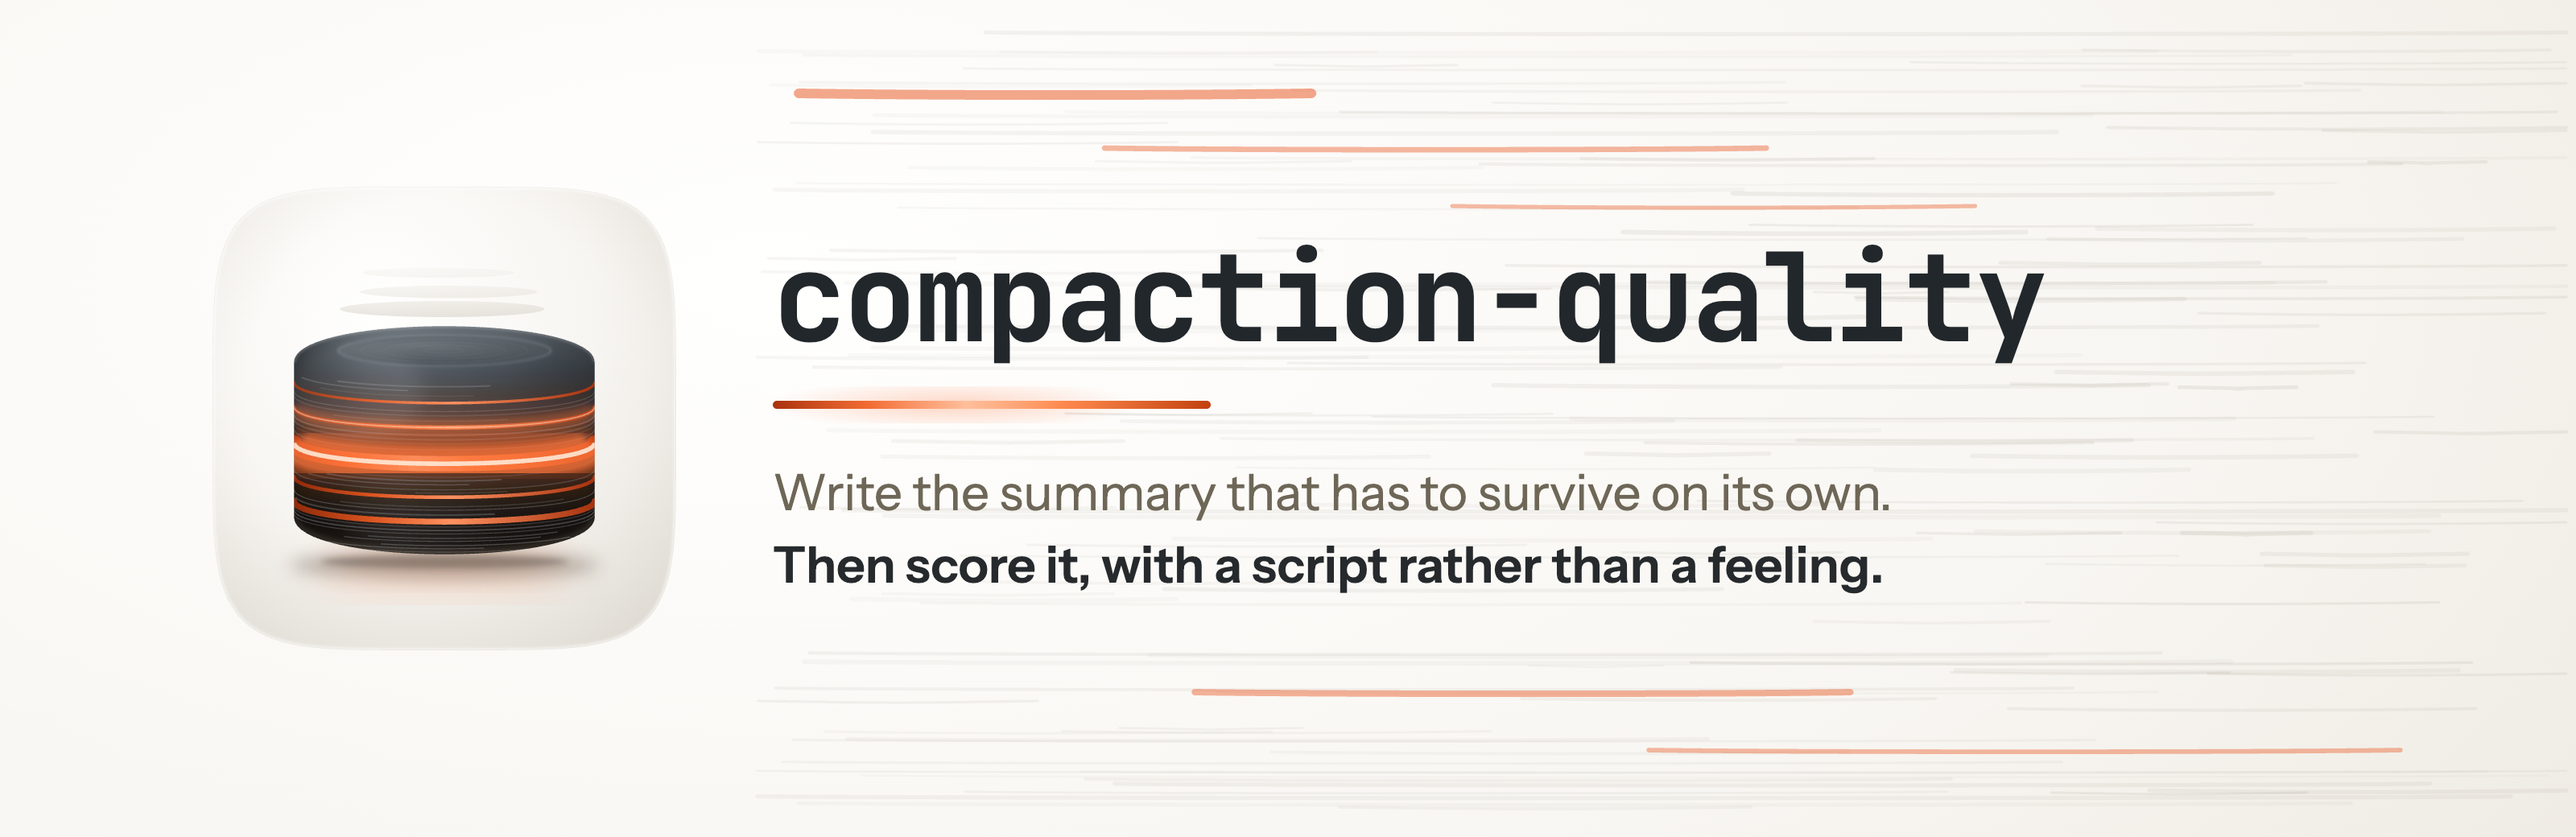
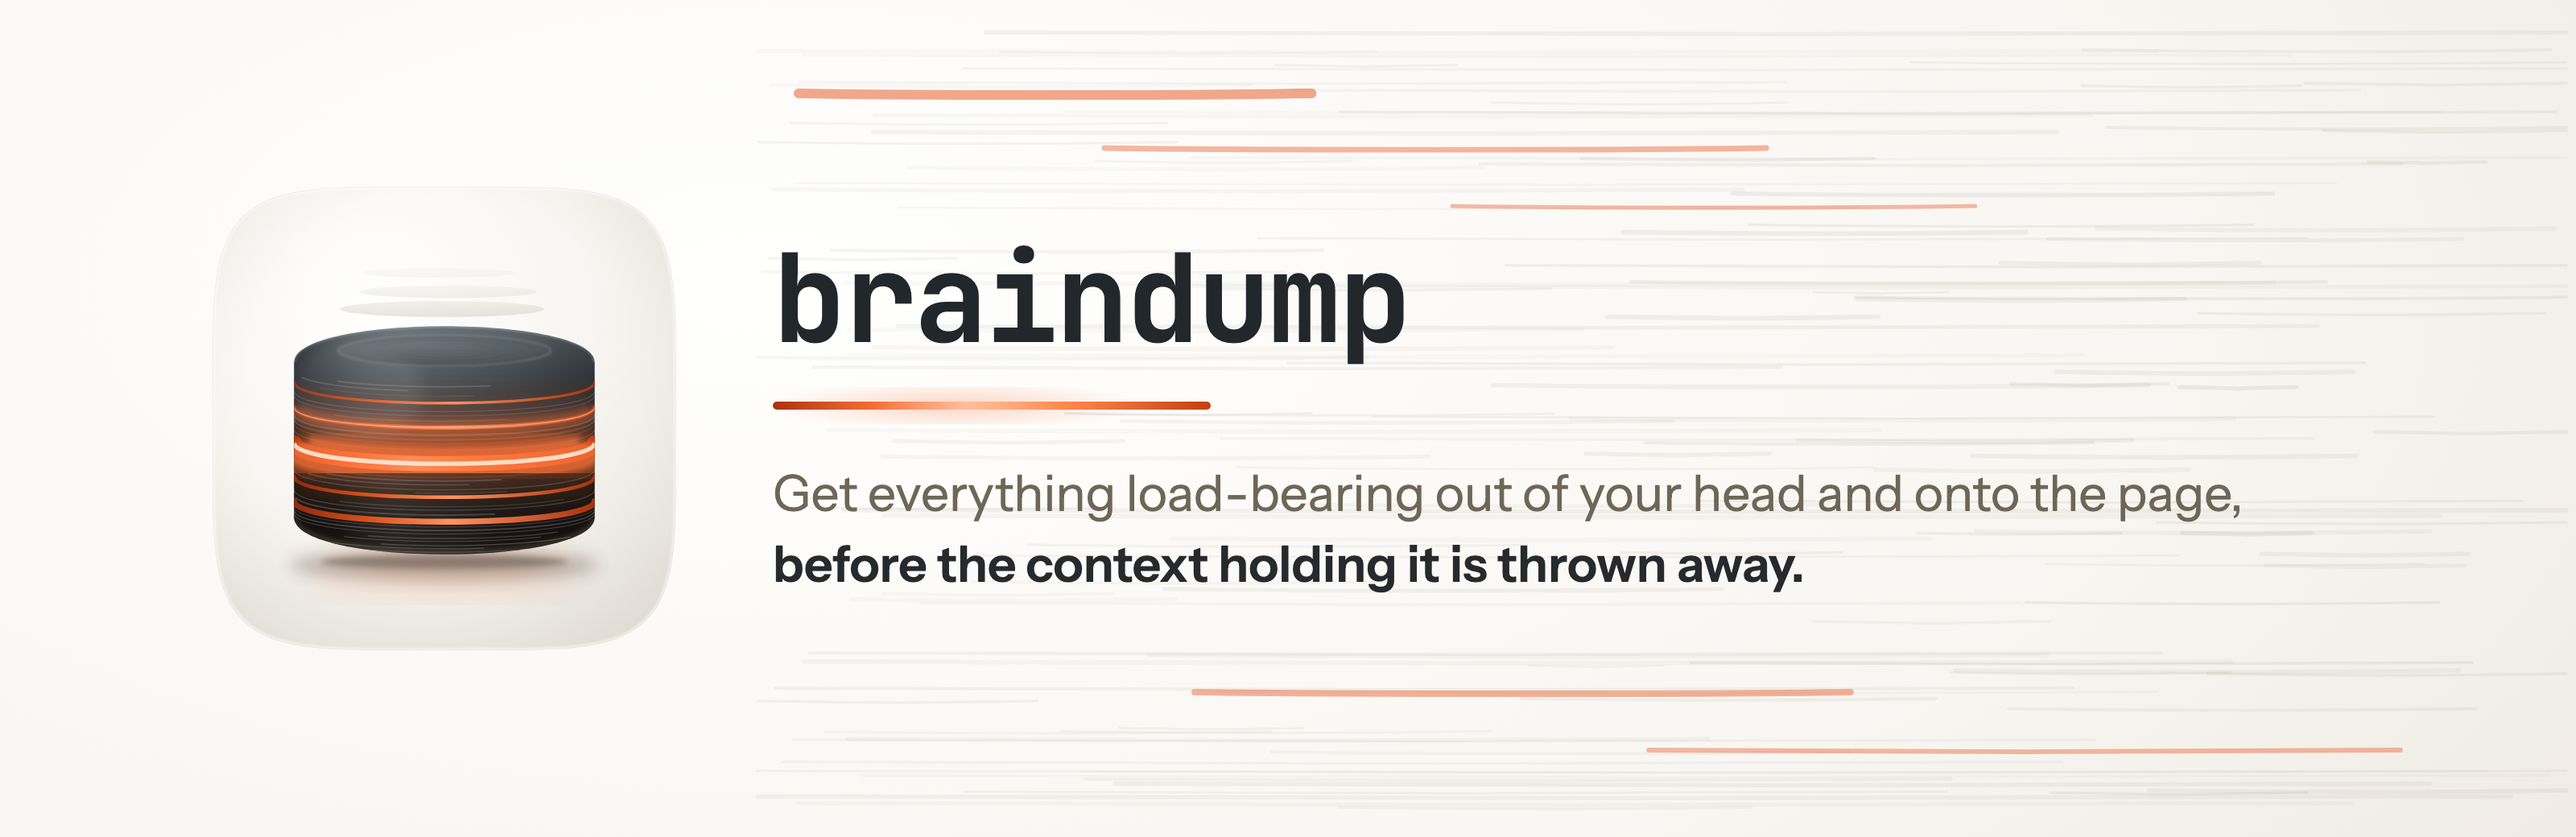
braindump 2.1.0: brand treatment for the new name
Banner rebuilt (its wordmark is rendered into the PNG) with a tagline that names
the act rather than the mechanism. README rewritten for a reader who is not deep
in agent tooling, carrying the current 121-event figures and the v2 field story.
Root README card and both manifests brought into step.

The icon artwork did not change, and that was a decision. The glyph carries no
wordmark, so nothing in the render was stale, and its direction was already
called Load-Bearing: the discs shedding off the top are the bulk being thrown
away and the seams are what had to survive it. That reads truer under the new
name than the old one. Re-commissioning an 11/12 master that took three engines
and five iterations would have spent a lot to land somewhere worse.

diff --git a/plugins/braindump/assets/banner-src.html b/plugins/braindump/assets/banner-src.html
@@ -32,10 +32,10 @@
   <div class="lockup">
     <img class="icon" src="icon.svg" alt="">
     <div class="words">
-      <div class="wordmark">compaction-quality</div>
+      <div class="wordmark">braindump</div>
       <div class="seam"></div>
-      <div class="tagline">Write the summary that has to survive on its own.
-        <b>Then score it, with a script rather than a feeling.</b></div>
+      <div class="tagline">Get everything load-bearing out of your head and onto the page,
+        <b>before the context holding it is thrown away.</b></div>
     </div>
   </div>
   <script>

diff --git a/plugins/braindump/README.md b/plugins/braindump/README.md
@@ -1,41 +1,56 @@
 <p align="center">
-  <img src="assets/banner.png" alt="compaction-quality: a compressed graphite core banded with five vermilion seams beside the wordmark, with the tagline: write the summary that has to survive on its own, then score it with a script rather than a feeling" width="100%" />
+  <img src="assets/banner.png" alt="braindump: a compressed graphite core banded with glowing vermilion seams beside the wordmark, with the tagline: get everything load-bearing out of your head and onto the page, before the context holding it is thrown away" width="100%" />
 </p>
 
-<h1><img src="assets/icon.svg" alt="" width="30" valign="middle" /> compaction-quality</h1>
+<h1><img src="assets/icon.svg" alt="" width="30" valign="middle" /> braindump</h1>
 
-Write compaction summaries that survive being the only thing the next session has. Then score them, with a script rather than a feeling.
+Get everything load-bearing out of your head and onto the page while the session still has it. Then score what survived, with a script rather than a feeling.
 
 <p>
-  <img alt="Median user-correction retention: 12.5 percent" src="https://img.shields.io/badge/user_corrections_retained-12.5%25-E8551F">
-  <img alt="Measured on 225 real compaction events" src="https://img.shields.io/badge/measured_on-225_real_events-3E464D">
+  <img alt="Rejected approaches retained by the built-in prompt: 0.3 percent" src="https://img.shields.io/badge/rejected_approaches_retained-0.3%25-E8551F">
+  <img alt="Measured on 121 real compaction events" src="https://img.shields.io/badge/measured_on-121_real_events-3E464D">
   <img alt="Scoring is exact string match, with no model judgment" src="https://img.shields.io/badge/scoring-exact_string_match-6E6757">
   <img alt="License: MIT" src="https://img.shields.io/badge/license-MIT-A79C89">
 </p>
 
+> Previously published as `compaction-quality`. Same skill, clearer name.
+
 ## Why this exists
 
-When a Claude Code session compacts, the summary becomes the entire inheritance; the reasoning, the files read, and the dead ends already ruled out are gone. Most summaries are written like recaps for a human who watched the session. The actual reader is a stranger who has to *continue the work*, and who will confidently redo whatever the summary left out.
+When a long session runs out of room, the tool squeezes it: everything that happened gets replaced by a summary, and the summary is all the next session gets. The reasoning is gone. So are the files you read, and every approach you already tried and ruled out.
 
-We measured what actually gets lost: **225 real compaction events**, each matched against the transcript it replaced, exact string match only.
+A summary reads naturally as a recap for someone who watched it happen. The actual reader is a stranger who has to carry on, and who will confidently redo whatever you left out.
 
-| What | Median retention | Median items per event |
-|---|---:|---:|
-| File paths | 2.9% | 477 |
-| Backtick identifiers | 17.2% | 924 |
-| User messages | 11.1% | 58 |
-| **User corrections** | **12.5%** | **5** |
+We measured what actually goes missing. **121 real compaction events**, each scored against the transcript it replaced, exact string match only.
 
-Three of those numbers are fine; carrying 477 transient file paths forward would make a summary worse, not better. The fourth is the problem. A correction is you saying *no, not like that*; there are about five per session, and four of them die in compaction. Losing one means the next session repeats a mistake you already paid to fix. It is the most expensive class to lose and the cheapest to keep.
+| What was in the session | Survived into the summary |
+|---|---:|
+| **Rejected approaches** | **0.3%** |
+| Standing constraints | 33.8% |
+| User corrections | 63.1% |
+| Exact identifiers | 48.6% |
+| File paths | 16.4% |
+
+Read the bottom row first, because it isn't a failure. Most file paths in a session are things you glanced at once; a summary that dragged all of them forward would be worse, not better. Low recall on bulk is correct.
+
+Now read the top row. **Everything you ruled out is gone.** Not compressed, gone. Two thirds of your standing rules go with it, and those are the ones you only ever said once.
+
+That matters more than it sounds. Constraint violations run at **0%** when the rule survives into the summary and **38%** when it doesn't. Whether the next session follows your rules is almost entirely a question of whether your rules are still written down.
 
 ## What the skill does
 
-One question decides every keep/drop call: **if this is missing, does the next session do something *wrong*, or merely something *slower*?** Wrong-class items (corrections with their reasons, one-shot constraints, unfinished work with its failure mode, exact identifiers) get kept verbatim. Slower-class bulk (exploration, passing reads, resolved errors) gets dropped without guilt. The skill carries the full rules, the summary shape, and the failure modes that make summaries quietly useless.
+It writes the summary in **two tiers**, and that single decision carries most of the value.
+
+**Tier 1 is pinned.** Your standing constraints, your corrections, the approaches you ruled out with the reason why, and the exact strings nobody can guess again: paths, error text, ports, version pins. Reproduced word for word, placed first, never summarised.
+
+**Tier 2 is the narrative.** What was built and why, what's left. Ordinary summarising is fine here.
+
+One question decides which tier anything goes in: *if this is missing, does the next session do something **wrong**, or merely something **slower**?* Re-reading a file costs seconds. Repeating a mistake you already corrected costs your trust in the thing.
 
 ```mermaid
 flowchart LR
-    T["Session transcript"] -->|"/compact"| S["Summary"]
-    T -.->|"gone"| G(["Reasoning, file reads,<br/>dead ends already ruled out"])
+    T["Session transcript"] -->|"squeezed"| S["Summary"]
+    T -.->|"gone"| G(["Reasoning, file reads,<br/>approaches already ruled out"])
     S ==> N(["Next session:<br/>this and nothing else"])
     T --> SC["score_retention.py<br/>exact string match"]
     S --> SC
@@ -43,7 +58,17 @@ flowchart LR
 ```
 
 > [!TIP]
-> Use it whenever you're about to run `/compact`, writing a handover note, or wondering why a session "forgot" something it was told.
+> Reach for it before you run `/compact`, when you're writing a handover note, or when a session has clearly forgotten something you told it.
+
+## What changed in v2
+
+The addendum shipped as v1 and then met a real session rather than a benchmark, which is where it earned its second version.
+
+It worked, and by the mechanism it was meant to. The summary opened with a pinned block carrying seven ruled-out approaches with their reasons, against an untouched summary earlier in the same session that kept one buried fragment out of fifteen.
+
+It also failed one specific way, and the failure is worth knowing: **the sweep stopped at recency.** Every dead end it kept came from the last two hours of a fourteen-hour session. Eight older ones went missing, all of them product and architecture decisions rather than method lessons, with a fully formed pinned block holding every one of them sitting in the same window, written eleven minutes earlier.
+
+Note: the items were never unreachable. The sweep just stopped where the material was densest. v2 says where to look (the whole conversation, from its oldest turn), that ruled-out approaches come in two kinds that live in different places, that a correction from another agent still counts, and that an earlier pinned block gets carried forward.
 
 ## The scorer
 
@@ -53,27 +78,33 @@ flowchart LR
 # score one summary
 python3 scripts/score_retention.py --transcript session.jsonl --summary summary.md
 
-# measure your own real /compact events
+# measure your own real compaction events
 python3 scripts/score_retention.py --scan-history
 ```
 
+`scripts/benchmark_vs_compact.py` runs it head to head against the built-in prompt. The baseline arm costs nothing, because it reads summaries already sitting on your disk.
+
 > [!NOTE]
-> The correction detector is a keyword heuristic; it misses politely-phrased corrections and flags some non-corrections. Treat its output as a candidate list to read, never a count to report. And don't chase 100% on the bulk numbers; pasting the transcript back in is the failure this whole exercise exists to avoid.
+> The correction detector is a keyword heuristic; it misses politely phrased corrections and flags some things that aren't corrections. Treat its output as a list to read, not a number to quote. And don't chase 100% on the bulk rows; pasting the transcript back in is the exact failure this whole thing exists to avoid.
 
 ## What's in the box
 
 ```text
-plugins/compaction-quality/
-├── SKILL.md                     the rules, the shape, the failure modes
-├── scripts/score_retention.py   the deterministic scorer (stdlib only)
-└── evals/evals.json             test prompts with string-match assertions
+plugins/braindump/
+├── SKILL.md                        the rules, the shape, the failure modes
+├── references/compact-addendum.md  the byte-stable literal a proxy can splice
+├── scripts/score_retention.py      the deterministic scorer (stdlib only)
+├── scripts/benchmark_vs_compact.py head to head, free baseline arm
+└── evals/evals.json                test prompts with string-match assertions
 ```
 
-The evals are deliberately judge-free: a summary can't be graded by the thing that wrote it, so every assertion is checkable by exact match against the source transcript.
+The evals are deliberately judge-free. A summary can't be graded by the thing that wrote it, so every assertion is checkable by exact match against the source transcript.
 
 ## Installing
 
 ```text
 /plugin marketplace add fledgeling-co/fledgeling-plugins
-/plugin install compaction-quality@fledgeling-plugins
+/plugin install braindump@fledgeling-plugins
 ```
+
+If you installed it under the old name, remove `compaction-quality` first; the rename doesn't migrate.

diff --git a/plugins/braindump/assets/icon-notes.md b/plugins/braindump/assets/icon-notes.md
@@ -1,4 +1,4 @@
-# compaction-quality icon notes
+# braindump icon notes
 
 **Direction: "Load-Bearing".** The studio's *Tahoe Gel-Glass* sub-register (a), porcelain cushion tile carrying a coloured gel object. Chosen because *compaction* is a geological word before it is a Claude Code one: strata under pressure, hundreds of layers, and a few seams that carry the record. Runner-up: sub-register (c) dark glass, rejected on two counts. The dark deep-sea register is already spoken for by the sibling plugin `trawl`, and a dark ground would have put the discarded bulk in shadow when the whole argument is that you can *see* how much got thrown away.
 
@@ -15,3 +15,5 @@
 **Three engines, five iterations.** Engine A is the shipping master (`icon.svg`, generated by `build_icon.py` so the strata geometry stays exact across iterations). Engine B (`icon-engineB-arrow.svg`) lost badly: field-less, taller than wide, broken seams, 5/12. One thing was salvaged from it and it earned its place, the discontinuous part-width hairlines that read like sedimentary bands pinching out. Engine C rasters (`icon-c1.png`, `icon-c2.png`) won the material comparison, and C1 set the bar twice.
 
 **v1 to v5, what the renders caught that the source did not.** v1 hard-failed #3: a concentric inner ellipse on the top face turned the silhouette into an open pot, and quadratic Béziers whose end tangents are not vertical met the side walls at a visible corner, so the object looked sliced rather than resting. v2 replaced both with cubic halves at 4/3 handle length (tangent-vertical at the wall) and rounded shoulders. v3 cooled the ground off a cream cast and narrowed the warm bleed, which had been washing the middle third orange. v4 dropped the shed discs to residue opacity so they stopped competing with the signature, and added the floor bounce. v5 came from a straight side-by-side call that C1 still looked better than the master, which it did: the glyph grew from 58.6% to 64.8% of the tile, the lathe texture roughly doubled in density, the wall gained a warm near-black base instead of a uniform cool grey, and the emissive interior got a bright core plus a second glowing seam, with the warm bleed then tightened so the upper body stays dark and the heat concentrates at the seam. Each pass was judged on real renders at 1024 / 128 / 32 / 16, never on the source.
+
+**Renamed `compaction-quality` → braindump (2026-08-10); the artwork did not change, and that was a decision rather than an omission.** The glyph carries no wordmark — the only occurrence of the old name was an unrendered SVG `<title>` — so nothing in the render was stale. More to the point the direction was already called *Load-Bearing*, and it reads truer under the new name than the old one: the three discs shedding off the top are the bulk being thrown away, and the seams are the few things that had to survive it. Re-commissioning an 11/12 master that took three engines and five iterations to reach would have spent a lot to land somewhere worse. The banner WAS rebuilt, because its wordmark is rendered into the PNG.

diff --git a/README.md b/README.md
@@ -80,7 +80,7 @@ The surgical counterpart to ship-armada: after work happens anywhere in the port
 
 ### [braindump](plugins/braindump/README.md)
 
-Writes context-compaction summaries that survive being the only thing the next session has. Rebuilt on four research reports and a fresh measurement across 121 real compaction events: rejected approaches survive at 0.3%, and standing constraints at somewhere between a third and a half depending on the sample. Ships a deterministic scorer and a head-to-head benchmark against the built-in /compact whose baseline arm costs nothing.
+Gets everything load-bearing out of a session and onto the page before the context holding it is thrown away. Measured across 121 real compaction events, the built-in prompt keeps 0.3% of the approaches you ruled out and 33.8% of your standing constraints; violations run 0% when a rule survives into the summary and 38% when it doesn't. Writes a pinned verbatim tier ahead of the narrative, and ships a deterministic scorer plus a head-to-head benchmark whose baseline arm costs nothing. Published as `compaction-quality` until 2026-08.
 
 <br clear="left" />
 
